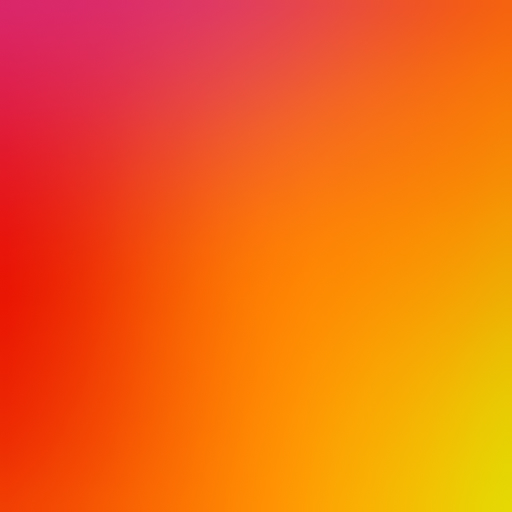
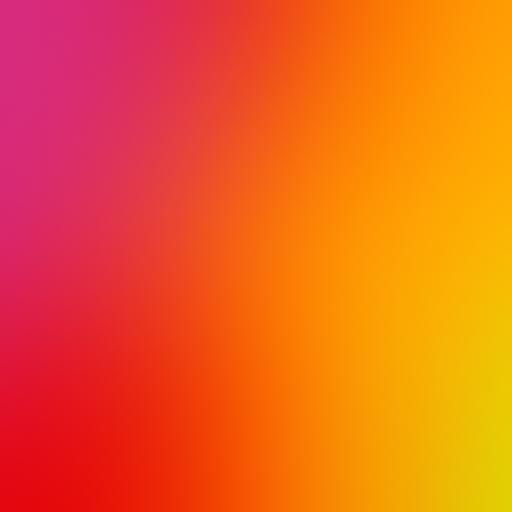
Adds bounds checking; updates warm sunset texture

diff --git a/client/src/contexts/ContextNavigation.tsx b/client/src/contexts/ContextNavigation.tsx
@@ -1,5 +1,5 @@
 import { createContext, useState, useEffect, useRef } from 'react';
-import { isEqual } from 'lodash';
+import { forEach, isEqual } from 'lodash';
 
 import { GRID_SIZE, UNDO_LIMIT } from '../constants/Constants';
 
@@ -16,15 +16,17 @@ export const ContextNavigation = createContext<{
     setSelectedLetterIds: (selectedLetterIds: string[] | ((prev: string[]) => string[])) => void;
     dialogIsOpen: boolean;
     setDialogIsOpen: (dialogIsOpen: boolean | ((prev: boolean) => boolean)) => void;
+    windowDimensions: { width: number, height: number }
 }>({
     isDraggingLetters: false,
-    setIsDraggingLetters: () => {},
+    setIsDraggingLetters: () => { },
     letterRuntimes: [],
-    setLetterRuntimes: () => {},
+    setLetterRuntimes: () => { },
     selectedLetterIds: [],
-    setSelectedLetterIds: () => {},
+    setSelectedLetterIds: () => { },
     dialogIsOpen: false,
-    setDialogIsOpen: () => {},
+    setDialogIsOpen: () => { },
+    windowDimensions: { width: 0, height: 0 },
 });
 
 export function ContextNavigationProvider({ children }: { children: React.ReactNode }) {
@@ -32,7 +34,7 @@ export function ContextNavigationProvider({ children }: { children: React.ReactN
     const [letterRuntimes, setLetterRuntimes] = useState<LetterRuntime[]>([]);
     const [selectedLetterIds, setSelectedLetterIds] = useState<string[]>([]);
     const [dialogIsOpen, setDialogIsOpen] = useState<boolean>(false);
-    const [mousePosition, setMousePosition] = useState<{x: number, y: number}>({x: 0, y: 0});
+    const [mousePosition, setMousePosition] = useState<{ x: number, y: number }>({ x: 0, y: 0 });
 
     const [stacks, setStacks] = useState<{
         undo: LetterRuntime[][];
@@ -42,7 +44,24 @@ export function ContextNavigationProvider({ children }: { children: React.ReactN
         redo: [],
     });
 
+    const [windowDimensions, setWindowDimensions] = useState({
+        width: window.innerWidth,
+        height: window.innerHeight,
+    });
+
     const hasReceivedLetterRuntimes = useRef(false);
+
+    useEffect(() => {
+        const handleResize = () => {
+            setWindowDimensions({
+                width: window.innerWidth,
+                height: window.innerHeight,
+            });
+        };
+
+        window.addEventListener('resize', handleResize);
+        return () => window.removeEventListener('resize', handleResize);
+    }, []);
 
     function PushUndoState(newState: LetterRuntime[]) {
         setStacks(prev => {
@@ -89,7 +108,7 @@ export function ContextNavigationProvider({ children }: { children: React.ReactN
                             }
                         }
                     });
-                    
+
                     return newLetterRuntimes;
                 });
             }
@@ -106,7 +125,7 @@ export function ContextNavigationProvider({ children }: { children: React.ReactN
             const isCtrlY = event.key === 'y' && isCtrl;
             const isCtrlZ = event.key === 'z' && isCtrl;
             const isShiftZ = event.key === 'z' && isShift;
-            
+
             // Undo
             if (isCtrlZ && !isShiftZ) {
                 event.preventDefault();
@@ -171,7 +190,7 @@ export function ContextNavigationProvider({ children }: { children: React.ReactN
 
                     selectedLetterIds.forEach(id => {
                         const runtimeIndex = newLetterRuntimes.findIndex(letter => letter.id === id);
-    
+
                         const found = runtimeIndex !== -1;
                         if (!found) {
                             console.error("Should have one runtime for each selected letter");
@@ -186,7 +205,7 @@ export function ContextNavigationProvider({ children }: { children: React.ReactN
                                     y: cy + dir * (x - cx),
                                 },
                             }
-                            
+
                             newLetterRuntimes[runtimeIndex] = updatedRuntime;
                         }
                     });
@@ -201,20 +220,38 @@ export function ContextNavigationProvider({ children }: { children: React.ReactN
                 RotateLetters(!isShift);
             }
         };
-    
+
         window.addEventListener('keydown', handleKeyDown);
         return () => window.removeEventListener('keydown', handleKeyDown);
-      }, [stacks, isDraggingLetters, selectedLetterIds, mousePosition]);
+    }, [stacks, isDraggingLetters, selectedLetterIds, mousePosition]);
 
     useEffect(() => {
         const handleGlobalMouseUp = () => {
             // Stop dragging
             setIsDraggingLetters(false);
-            
+
             // Resolve placement
             setLetterRuntimes(prev => {
                 if (selectedLetterIds.length <= 0) {
                     return prev;
+                }
+
+                // Check if all tiles are in bounds
+                let allInBounds = true;
+                prev.forEach(letterRuntime => {
+                    if (selectedLetterIds.includes(letterRuntime.id)) {
+                        const pos = letterRuntime.positionWhileDragging;
+                        if (pos.x < 0 || pos.x > windowDimensions.width
+                            || pos.y < 0 || pos.y > windowDimensions.height
+                        ) {
+                            allInBounds = false;
+                        }
+                        return;
+                    }
+                })
+                if (!allInBounds) {
+                    // Revert to last valid state
+                    return stacks.undo[stacks.undo.length - 1];
                 }
 
                 const newLetterRuntimes = [...prev];
@@ -233,7 +270,7 @@ export function ContextNavigationProvider({ children }: { children: React.ReactN
                     col: number;
                 }
 
-                const originalSpaces : GridSpace[] = selectedLetterIds.map(id => {
+                const originalSpaces: GridSpace[] = selectedLetterIds.map(id => {
                     const runtimeIndex = newLetterRuntimes.findIndex(letter => letter.id === id);
                     if (runtimeIndex !== -1) {
                         const runtime = newLetterRuntimes[runtimeIndex];
@@ -242,7 +279,7 @@ export function ContextNavigationProvider({ children }: { children: React.ReactN
                     return { row: -1, col: -1 };
                 });
 
-                const targetSpaces : GridSpace[] = selectedLetterIds.map(id => {
+                const targetSpaces: GridSpace[] = selectedLetterIds.map(id => {
                     const runtimeIndex = newLetterRuntimes.findIndex(letter => letter.id === id);
                     if (runtimeIndex !== -1) {
                         const runtime = newLetterRuntimes[runtimeIndex];
@@ -253,14 +290,14 @@ export function ContextNavigationProvider({ children }: { children: React.ReactN
                     return { row: -1, col: -1 };
                 });
 
-                const isSameSpace = (a : GridSpace, b : GridSpace) => a.row === b.row && a.col === b.col;
+                const isSameSpace = (a: GridSpace, b: GridSpace) => a.row === b.row && a.col === b.col;
 
                 const freedSpaces = originalSpaces.filter(
-                  original => !targetSpaces.some(target => isSameSpace(original, target))
+                    original => !targetSpaces.some(target => isSameSpace(original, target))
                 );
-                
+
                 const occupiedSpaces = targetSpaces.filter(
-                  target => !originalSpaces.some(original => isSameSpace(target, original))
+                    target => !originalSpaces.some(original => isSameSpace(target, original))
                 );
 
                 const runtimeIndex = newLetterRuntimes.findIndex(letter => letter.id === selectedLetterIds[0]);
@@ -279,7 +316,7 @@ export function ContextNavigationProvider({ children }: { children: React.ReactN
                     const sortingFunction = (a: GridSpace, b: GridSpace) => {
                         return sortingValue(a) - sortingValue(b);
                     };
-    
+
                     freedSpaces.sort(sortingFunction);
                     occupiedSpaces.sort(sortingFunction);
                 }
@@ -294,7 +331,7 @@ export function ContextNavigationProvider({ children }: { children: React.ReactN
                     const runtimeIndex = newLetterRuntimes.findIndex(letter => {
                         return letter.row === occupiedSpace.row && letter.col === occupiedSpace.col;
                     });
-                    
+
                     if (runtimeIndex !== -1) {
                         const runtime = newLetterRuntimes[runtimeIndex];
                         const targetRow = freedSpaces[i].row;
@@ -327,7 +364,7 @@ export function ContextNavigationProvider({ children }: { children: React.ReactN
                             col: targetCol,
                             positionWhileDragging: getPositionFromCoords(targetRow, targetCol),
                         }
-                        
+
                         newLetterRuntimes[runtimeIndex] = updatedRuntime;
                     }
                 });
@@ -345,13 +382,14 @@ export function ContextNavigationProvider({ children }: { children: React.ReactN
     return (
         <ContextNavigation.Provider value={{
             isDraggingLetters,
-            setIsDraggingLetters, 
+            setIsDraggingLetters,
             letterRuntimes,
             setLetterRuntimes,
             selectedLetterIds,
             setSelectedLetterIds,
             dialogIsOpen,
             setDialogIsOpen,
+            windowDimensions,
         }}>
             {children}
         </ContextNavigation.Provider>

diff --git a/client/src/components/Board.tsx b/client/src/components/Board.tsx
@@ -1,30 +1,18 @@
-import { useEffect, useState } from 'react';
+import { useContext, useEffect, useState } from 'react';
 
 import DragBounds from './DragBounds';
+
+import { ContextNavigation } from '../contexts/ContextNavigation';
 
 import { GRID_SIZE } from '../constants/Constants';
 
 export default function Board() {
+    const { windowDimensions } = useContext(ContextNavigation);
+
     const [isDragging, setIsDragging] = useState(false);
     const [startPosition, setStartPosition] = useState({ x: -1, y: -1 });
     const [currentPosition, setCurrentPosition] = useState({ x: -1, y: -1 });
-    const [dimensions, setDimensions] = useState({
-        width: window.innerWidth,
-        height: window.innerHeight,
-    });
 
-    useEffect(() => {
-        const handleResize = () => {
-            setDimensions({
-            width: window.innerWidth,
-            height: window.innerHeight,
-            });
-        };
-
-        window.addEventListener('resize', handleResize);
-        return () => window.removeEventListener('resize', handleResize);
-    }, []);
-    
     useEffect(() => {
         const handleGlobalMouseUp = () => {
             setIsDragging(false);
@@ -49,13 +37,13 @@ export default function Board() {
     const verticalLines = [];
     const horizontalLines = [];
   
-    for (let x = GRID_SIZE; x <= dimensions.width; x += GRID_SIZE) {
+    for (let x = GRID_SIZE; x <= windowDimensions.width; x += GRID_SIZE) {
         verticalLines.push(
             <div key={`v-${x}`} className="grid-line vertical" style={{ left: x }} />
         );
     }
   
-    for (let y = GRID_SIZE; y <= dimensions.height; y += GRID_SIZE) {
+    for (let y = GRID_SIZE; y <= windowDimensions.height; y += GRID_SIZE) {
         horizontalLines.push(
             <div key={`h-${y}`} className="grid-line horizontal" style={{ top: y }} />
         );

diff --git a/client/src/assets/styles/main.scss b/client/src/assets/styles/main.scss
@@ -41,8 +41,10 @@ a:hover {
   text-decoration: underline;
 }
 
-body {
+body, html {
   margin: 0;
+  overflow: hidden;
+  height: 100%;
 }
 
 h1 {
